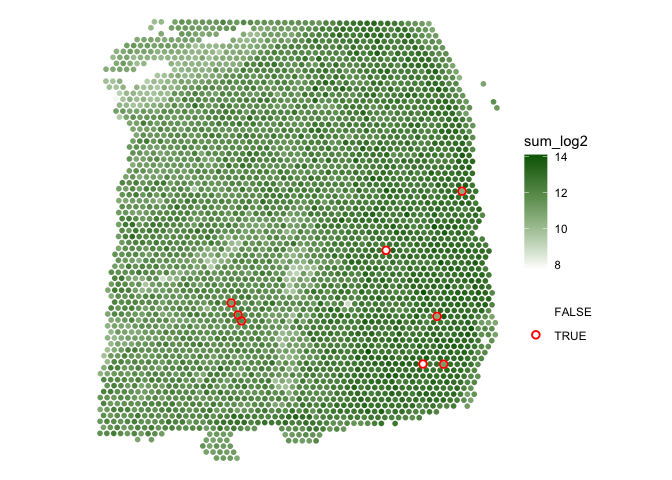
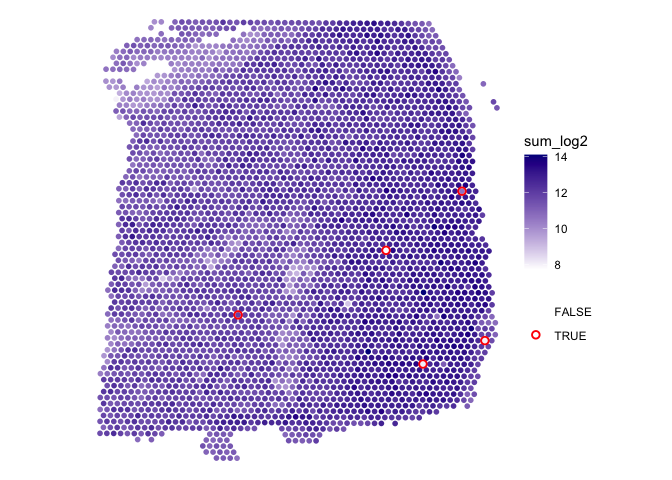
updated ReadMe

diff --git a/README.md b/README.md
@@ -10,16 +10,25 @@ experimental](https://img.shields.io/badge/lifecycle-experimental-orange.svg)](h
 [![R-CMD-check](https://github.com/MicTott/SpotSweeper/actions/workflows/R-CMD-check.yaml/badge.svg)](https://github.com/MicTott/SpotSweeper/actions/workflows/R-CMD-check.yaml)
 <!-- badges: end -->
 
-`SpotSweeper` is a BioConductor package for spatially-aware quality
-control (QC) methods for the detection, visualization, and removal of
-local outliers in spot-based spatial transcriptomics data, such as 10x
-Genomics `Visium`, using standard QC metrics.
+`SpotSweeper` is a package developed for spatially-aware quality control
+(QC) methods for the detection, visualization, and removal of both local
+outliers and large artifacts in spot-based spatial transcriptomics data,
+such as 10x Genomics `Visium`, using standard QC metrics.
 
 ## Installation instructions (in progress)
 
-Get the latest stable `R` release from
-[CRAN](http://cran.r-project.org/). Then install `SpotSweeper` from
-[Bioconductor](http://bioconductor.org/) using the following code:
+Currently, the only way to install `SpotSweeper` is by downloading the
+development version which can be installed from
+[GitHub](https://github.com/MicTott/SpotSweeper) using the following:
+
+``` r
+if (!require("devtools")) install.packages("devtools")
+remotes::install_github("MicTott/SpotSweeper")
+}
+```
+
+Once accepted in [Bioconductor](http://bioconductor.org/), `SpotSweeper`
+will be installable using:
 
 ``` r
 if (!requireNamespace("BiocManager", quietly = TRUE)) {
@@ -27,13 +36,6 @@ if (!requireNamespace("BiocManager", quietly = TRUE)) {
 }
 
 BiocManager::install("SpotSweeper")
-```
-
-And the development version from
-[GitHub](https://github.com/MicTott/SpotSweeper) with:
-
-``` r
-BiocManager::install("MicTott/SpotSweeper")
 ```
 
 ## Tutorial (in progress)
@@ -45,30 +47,23 @@ available here.
 ## Input data format
 
 In the examples below, we assume the input data are provided as a
-SpatialExperiment (SPE) object. The outputs for spot-level outliers are
-stored in the colData of the SPE object.
-
-(FUTURE TODO) Alternatively, the inputs can also be provided as a
-numeric matrix of normalized and transformed counts
-(e.g. log-transformed normalized counts, also known as logcounts) and a
-numeric matrix of spatial coordinates.
+[SpatialExperiment](https://github.com/drighelli/SpatialExperiment)
+(SPE) object. The outputs for spot-level outliers and artifacts are
+stored in the `colData` of the SPE object.
 
 ## Spot-level local outlier detection
 
-This is an exmaple workflow showing how to detect and visualize local
+This is an example workflow showing how to detect and visualize local
 outliers in 10X Genomics Visium data.
 
 ``` r
 library(SpotSweeper)
-suppressPackageStartupMessages({
-  library(SpatialExperiment)
-})
-#> Warning: package 'S4Vectors' was built under R version 4.3.2
-#> Warning: package 'GenomeInfoDb' was built under R version 4.3.2
 
 
 # load  Maynard et al DLPFC daatset
 spe <- STexampleData::Visium_humanDLPFC()
+#> Warning: package 'S4Vectors' was built under R version 4.3.2
+#> Warning: package 'GenomeInfoDb' was built under R version 4.3.2
 #> see ?STexampleData and browseVignettes('STexampleData') for documentation
 #> loading from cache
 
@@ -103,16 +98,16 @@ colnames(colData(spe))
 #> [10] "subsets_Mito_sum"      "subsets_Mito_detected" "subsets_Mito_percent" 
 #> [13] "total"
 
-# Identifying local outliers suing SpotSweeper
+# Identifying local outliers using SpotSweeper
 features <- c('sum' ,'detected', "subsets_Mito_percent")
 spe<- localOutliers(spe, 
                     features=features,
-                    n_neighbors=36, 
+                    n_neighbors=18, 
                     data_output=TRUE,
                     method="multivariate"
                     )
 
-# show column data before SpotSweeper
+# show column data after SpotSweeper
 colnames(colData(spe))
 #>  [1] "barcode_id"                "sample_id"                
 #>  [3] "in_tissue"                 "array_row"                
@@ -127,8 +122,8 @@ colnames(colData(spe))
 #> [21] "subsets_Mito_percent_z"    "LOF"
 ```
 
-Below we can visualize `local_outliers` vs one of the QC metrics,
-`sum_log2`, using the `escheR` package.
+We can now visualize `local_outliers` vs one of the QC metrics,
+`sum_log2`, with help from the `escheR` package.
 
 ``` r
 library(escheR)
@@ -144,18 +139,17 @@ make_escheR(spe) |>
       "TRUE" = "red",
       "FALSE" = "transparent")
   ) +
-  scale_fill_gradient(low ="white",high =  "darkgreen")
+  scale_fill_gradient(low ="white",high =  "darkblue")
 #> Scale for fill is already present.
 #> Adding another scale for fill, which will replace the existing scale.
 ```
 
 <img src="man/figures/README-local_outlier_plot-1.png" width="100%" />
 
-## Region-level artifact detection (in progress)
+## Artifact detection
 
-Regional artifacts, such as “smears” and tissue tears, can be visualized
-and detected by calculating the local variance of mitochondrial percent
-or ratio.
+Large artifacts can be visualized and detected by calculating the local
+variance of standard QC metrics, such as mitochondrial ratio.
 
 TODO: add example with regional artifact.
 
@@ -206,83 +200,21 @@ ggarrange(
 
 ## Citation
 
-Below is the citation output from using `citation('SpotSweeper')` in R.
-Please run this yourself to check for any updates on how to cite
-**SpotSweeper**.
+Please look out for our preprint describing `SpotSweeper` on bioRxiv.
+Until then, please cite the package as follows:
 
 ``` r
-print(citation("SpotSweeper"), bibtex = TRUE)
-#> To cite package 'SpotSweeper' in publications use:
-#> 
-#>   MicTott (2024). _SpotSweepR: an R package for the automated removal
-#>   of spot artifacts from spatially-resolved transcriptomics data_.
-#>   doi:10.18129/B9.bioc.SpotSweeper
-#>   <https://doi.org/10.18129/B9.bioc.SpotSweeper>,
-#>   https://github.com/MicTott/SpotSweeper/SpotSweeper - R package
-#>   version 0.99.0, <http://www.bioconductor.org/packages/SpotSweeper>.
-#> 
-#> A BibTeX entry for LaTeX users is
-#> 
-#>   @Manual{,
-#>     title = {SpotSweepR: an R package for the automated removal of spot artifacts from spatially-resolved transcriptomics data},
-#>     author = {{MicTott}},
-#>     year = {2024},
-#>     url = {http://www.bioconductor.org/packages/SpotSweeper},
-#>     note = {https://github.com/MicTott/SpotSweeper/SpotSweeper - R package version 0.99.0},
-#>     doi = {10.18129/B9.bioc.SpotSweeper},
-#>   }
-#> 
-#>   MicTott (2024). "SpotSweeper: an R package for the automated removal
-#>   of spot artifacts from spatially-resolved transcriptomics data."
-#>   _bioRxiv_. doi:10.1101/TODO <https://doi.org/10.1101/TODO>,
-#>   <https://www.biorxiv.org/content/10.1101/TODO>.
-#> 
-#> A BibTeX entry for LaTeX users is
-#> 
-#>   @Article{,
-#>     title = {SpotSweeper: an R package for the automated removal of spot artifacts from spatially-resolved transcriptomics data},
-#>     author = {{MicTott}},
-#>     year = {2024},
-#>     journal = {bioRxiv},
-#>     doi = {10.1101/TODO},
-#>     url = {https://www.biorxiv.org/content/10.1101/TODO},
-#>   }
+citation("SpotSweeper")
 ```
-
-Please note that the `SpotSweeper` was only made possible thanks to many
-other R and bioinformatics software authors, which are cited either in
-the vignettes and/or the paper(s) describing this package.
-
-## Code of Conduct
-
-Please note that the `SpotSweeper` project is released with a
-[Contributor Code of
-Conduct](http://bioconductor.org/about/code-of-conduct/). By
-contributing to this project, you agree to abide by its terms.
 
 ## Development tools
 
-- Continuous code testing is possible thanks to [GitHub
-  actions](https://www.tidyverse.org/blog/2020/04/usethis-1-6-0/)
-  through *[usethis](https://CRAN.R-project.org/package=usethis)*,
-  *[remotes](https://CRAN.R-project.org/package=remotes)*, and
-  *[rcmdcheck](https://CRAN.R-project.org/package=rcmdcheck)* customized
-  to use [Bioconductor’s docker
-  containers](https://www.bioconductor.org/help/docker/) and
-  *[BiocCheck](https://bioconductor.org/packages/3.18/BiocCheck)*.
-- Code coverage assessment is possible thanks to
-  [codecov](https://codecov.io/gh) and
-  *[covr](https://CRAN.R-project.org/package=covr)*.
-- The [documentation website](http://MicTott.github.io/SpotSweeper) is
-  automatically updated thanks to
-  *[pkgdown](https://CRAN.R-project.org/package=pkgdown)*.
-- The code is styled automatically thanks to
-  *[styler](https://CRAN.R-project.org/package=styler)*.
-- The documentation is formatted thanks to
-  *[devtools](https://CRAN.R-project.org/package=devtools)* and
-  *[roxygen2](https://CRAN.R-project.org/package=roxygen2)*.
+``` r
 
-For more details, check the `dev` directory.
+* Continuous code testing is possible thanks to [GitHub actions](https://www.tidyverse.org/blog/2020/04/usethis-1-6-0/)  through `r BiocStyle::Biocpkg('biocthis')`.
+* The [documentation website](http://MicTott.github.io/SpotSweeper) is automatically updated thanks to `r BiocStyle::CRANpkg('pkgdown')`.
+* The code is styled automatically thanks to `r BiocStyle::CRANpkg('styler')`.
+* The documentation is formatted thanks to `r BiocStyle::CRANpkg('devtools')` and `r BiocStyle::CRANpkg('roxygen2')`.
 
-This package was developed using
-*[biocthis](https://bioconductor.org/packages/3.18/biocthis)*.
+This package was developed using `r BiocStyle::Biocpkg('biocthis')`.
+```
